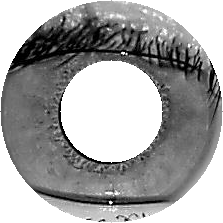
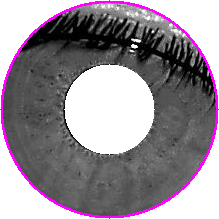
optimisation + affichage condensé
Suppression des nombreux imshow, focntion display() pour afficher ensemble les images. Ajout de commentaires

diff --git a/iris_recognition.py b/iris_recognition.py
@@ -2,19 +2,18 @@ import numpy as np
 import cv2 as cv
 from scipy.spatial import distance
 
-global pupil_1
-global pupil_2
-
 
 class IrisDetection:
     def __init__(self, img_path1, img_path2):
         self.path_1 = img_path1
+        self.original_1 = None
         self.img_loaded_1 = None
         self.img_gray_1 = None
         self.gaussian_1 = None
         self.img_edge_1 = None
         self.binary_1 = None
         self.path_2 = img_path2
+        self.original_1 = None
         self.img_loaded_2 = None
         self.img_gray_2 = None
         self.gaussian_2 = None
@@ -30,6 +29,8 @@ class IrisDetection:
         self.iris_2 = None
 
     def start(self):
+        # Méthode appelée lors de la création d'un objet, renvoyant le tuple des valeurs
+        # pour les iris et pupilles de chaque oeil
         self.read_img()
         self.img_2_gray()
         self.gaussian_filter()
@@ -37,50 +38,32 @@ class IrisDetection:
         self.hough_transform_pupil()
         self.detect_iris()
         self.sub_mask()
-        # self.write_txt()
+        self.display()
         return self.iris_1, self.iris_2, self.pupil_1, self.pupil_2
 
     def read_img(self):
+        # Méthode pour lire une image et utiliser ses données par la suite
         self.img_loaded_1 = cv.imread(self.path_1)
         self.img_loaded_2 = cv.imread(self.path_2)
-        numpy_horizontal_concat = np.concatenate(
-            (self.img_loaded_1, self.img_loaded_2), axis=1)
-        cv.imshow('Images originales', numpy_horizontal_concat)
-        cv.waitKey(0)
-        cv.destroyAllWindows()
-        cv.waitKey(1)
+        self.original_1 = cv.imread(self.path_1)
+        self.original_2 = cv.imread(self.path_2)
 
     def img_2_gray(self):
+        # On convertit les images lues en gris
         self.img_gray_1 = cv.cvtColor(self.img_loaded_1, cv.COLOR_BGR2GRAY)
         self.img_gray_2 = cv.cvtColor(self.img_loaded_2, cv.COLOR_BGR2GRAY)
-        numpy_horizontal_concat = np.concatenate(
-            (self.img_gray_1, self.img_gray_2), axis=1)
-        cv.imshow('Images Gris', numpy_horizontal_concat)
-        cv.waitKey(0)
-        cv.destroyAllWindows()
-        cv.waitKey(1)
 
     def gaussian_filter(self):
+        # On applique un filtre de Gauss
         self.gaussian_1 = cv.GaussianBlur(self.img_gray_1, (5, 5), 0)
         self.gaussian_2 = cv.GaussianBlur(self.img_gray_2, (5, 5), 0)
-        numpy_horizontal_concat = np.concatenate(
-            (self.gaussian_1, self.gaussian_2), axis=1)
-        cv.imshow('Images Gauss', numpy_horizontal_concat)
-        cv.waitKey(0)
-        cv.destroyAllWindows()
-        cv.waitKey(1)
 
     def canny_img(self):
+        # Filtre de Canny pour détecter les contours
         self.img_edge_1 = cv.Canny(
             image=self.gaussian_1, threshold1=60, threshold2=70)
         self.img_edge_2 = cv.Canny(
             image=self.gaussian_2, threshold1=60, threshold2=70)
-        numpy_horizontal_concat = np.concatenate(
-            (self.img_edge_1, self.img_edge_2), axis=1)
-        cv.imshow('Images Canny', numpy_horizontal_concat)
-        cv.waitKey(0)
-        cv.destroyAllWindows()
-        cv.waitKey(1)
 
     def hough_transform_pupil(self):
         # Les pixels au dessus de 150 deviennent blancs
@@ -103,7 +86,6 @@ class IrisDetection:
                 self.mask_1 = np.zeros_like(self.img_loaded_1)
                 self.mask_1 = cv.circle(
                     self.mask_1, center, radius, (255, 255, 255), -1)
-                # cv.circle(self.img_loaded_1, center, radius, (255, 0, 255), 3)
                 self.pupil_1 = (center[0], center[1], radius)
 
         # Image 2
@@ -124,21 +106,7 @@ class IrisDetection:
                 self.mask_3 = np.zeros_like(self.img_loaded_1)
                 self.mask_3 = cv.circle(
                     self.mask_3, center, radius, (255, 255, 255), -1)
-                # cv.circle(self.img_loaded_2, center, radius, (255, 0, 255), 3)
                 self.pupil_2 = (center[0], center[1], radius)
-
-        numpy_horizontal_concat = np.concatenate(
-            (self.binary_1, self.binary_2), axis=1)
-        cv.imshow('Images Binaires', numpy_horizontal_concat)
-        cv.waitKey(0)
-        cv.destroyAllWindows()
-        cv.waitKey(1)
-        numpy_horizontal_concat = np.concatenate(
-            (self.img_loaded_1, self.img_loaded_2), axis=1)
-        cv.imshow('Images Pupille', numpy_horizontal_concat)
-        cv.waitKey(0)
-        cv.destroyAllWindows()
-        cv.waitKey(1)
 
     def detect_iris(self):
         # La distance minimum est donnée par le double du rayon de la pupille ( donc son diamètre ) afin d'éviter
@@ -175,14 +143,11 @@ class IrisDetection:
                 cv.circle(self.img_loaded_2, center, radius, (255, 0, 255), 3)
                 self.iris_2 = (center[0], center[1], radius)
 
-        numpy_horizontal_concat = np.concatenate(
-            (self.img_loaded_1, self.img_loaded_2), axis=1)
-        cv.imshow('Images Iris', numpy_horizontal_concat)
-        cv.waitKey(0)
-        cv.destroyAllWindows()
-        cv.waitKey(1)
-
     def sub_mask(self):
+        # On va supprimer la pupille et l'extérieur de l'iris,
+        # on créé un fichier contenant le résultat du détourage pour chaque image
+
+        # Image 1
         mask_final_1 = cv.subtract(self.mask_2, self.mask_1)
         result1 = cv.cvtColor(self.img_loaded_1, cv.COLOR_BGR2BGRA)
         result1[:, :, 3] = mask_final_1[:, :, 0]
@@ -194,23 +159,36 @@ class IrisDetection:
         result2[:, :, 3] = mask_final_2[:, :, 0]
         cv.imwrite("mask_2.png", result2)
 
-    def write_txt(self):
-        print(self.iris_1, self.iris_2)
-        f = open("iris.txt", "w")
-        f.write(str(self.iris_1))
-        f.close()
-        f = open("iris.txt", "a")
-        f.write(str(self.iris_2))
-        f.close()
-        f = open("iris.txt", "a")
-        f.write(str(self.pupil_1))
-        f.close()
-        f = open("iris.txt", "a")
-        f.write(str(self.pupil_2))
-        f.close()
+    def display(self):
+        numpy_concat_originals = np.concatenate(
+            (self.original_1, self.original_2), axis=1)
+        numpy_concat_grey = np.concatenate(
+            (self.img_gray_1, self.img_gray_2), axis=1)
+        numpy_concat_gauss = np.concatenate(
+            (self.gaussian_1, self.gaussian_2), axis=1)
+        numpy_concat_canny = np.concatenate(
+            (self.img_edge_1, self.img_edge_2), axis=1)
+        numpy_concat_binary = np.concatenate(
+            (self.binary_1, self.binary_2), axis=1)
+        numpy_concat_pupils = np.concatenate(
+            (self.img_loaded_1, self.img_loaded_2), axis=1)
+        numpy_concat_iris = np.concatenate(
+            (self.img_loaded_1, self.img_loaded_2), axis=1)
 
+        ver1 = np.concatenate(
+            (numpy_concat_grey, numpy_concat_gauss, numpy_concat_canny, numpy_concat_binary), axis=0)
+        ver2 = np.concatenate(
+            (numpy_concat_pupils, numpy_concat_iris), axis=0)
+        #vertical = np.column_stack((ver1, ver2))
+        cv.imshow("Images grises -> Gauss -> Canny -> binaires", ver1)
+        cv.imshow("Images pupilles -> Images iris", ver2)
+        cv.waitKey(0)
+        cv.destroyAllWindows()
+        cv.waitKey(1)
 
 # Pour la création d'un masque des paupières voir https://books.google.be/books?id=SI29AgAAQBAJ&pg=PA149&lpg=PA149&dq=iris+recon+matlab&source=bl&ots=Ae633czDjg&sig=ACfU3U3wu6AIhpf8zz56CKe0WL6yP-YAug&hl=fr&sa=X&ved=2ahUKEwjQucmpyrT0AhXP3KQKHS_OBOEQ6AF6BAgUEAM#v=onepage&q=iris%20recon%20matlab&f=false
+
+
 class IrisRecognition():
     def __init__(self, mask1, mask2, iris_1, iris_2, pupil_1, pupil_2):
         self.mask_1 = cv.imread(mask1, cv.IMREAD_UNCHANGED)
@@ -219,46 +197,51 @@ class IrisRecognition():
         self.iris_2 = iris_2
         self.pupil_1 = pupil_1
         self.pupil_2 = pupil_2
+        self.polar_1 = None
+        self.polar_2 = None
 
     def start(self):
         self.transparency()
         self.crop()
         self.normalisation()
         self.get_keypoints()
+        self.display()
 
     def crop(self):
-        # (1) Convert to gray, and threshold
+        # Méthode pour détourer le vide inutile à l'extérieur de l'iris,
+        # il enregistre une image détourée pour chaque oeil
+        # (1) Convertit en gris et création d'une limite
         gray = cv.cvtColor(self.mask_1, cv.COLOR_BGR2GRAY)
         th, threshed = cv.threshold(gray, 240, 255, cv.THRESH_BINARY_INV)
 
-        # (2) Morph-op to remove noise
+        # (2) Morph-op pour supprimer le bruit
         kernel = cv.getStructuringElement(cv.MORPH_ELLIPSE, (11, 11))
         morphed = cv.morphologyEx(threshed, cv.MORPH_CLOSE, kernel)
 
-        # (3) Find the max-area contour
+        # (3) Cherche la zone du contour MAX
         cnts = cv.findContours(morphed, cv.RETR_EXTERNAL,
                                cv.CHAIN_APPROX_SIMPLE)[-2]
         cnt = sorted(cnts, key=cv.contourArea)[-1]
 
-        # (4) Crop and save it
+        # (4) Détoure et enregistre
         x, y, w, h = cv.boundingRect(cnt)
         dst = self.mask_1[y:y + h, x:x + w]
         cv.imwrite("crop_1.png", dst)
 
-        # (1) Convert to gray, and threshold
+        # (1) Convertit en gris et création d'une limite
         gray = cv.cvtColor(self.mask_2, cv.COLOR_BGR2GRAY)
         th, threshed = cv.threshold(gray, 240, 255, cv.THRESH_BINARY_INV)
 
-        # (2) Morph-op to remove noise
+        # (2) Morph-op pour supprimer le bruit
         kernel = cv.getStructuringElement(cv.MORPH_ELLIPSE, (11, 11))
         morphed = cv.morphologyEx(threshed, cv.MORPH_CLOSE, kernel)
 
-        # (3) Find the max-area contour
+        # (3) Cherche la zone du contour MAX
         cnts = cv.findContours(morphed, cv.RETR_EXTERNAL,
                                cv.CHAIN_APPROX_SIMPLE)[-2]
         cnt = sorted(cnts, key=cv.contourArea)[-1]
 
-        # (4) Crop and save it
+        # (4) Détoure et enregistre
         x, y, w, h = cv.boundingRect(cnt)
         dst = self.mask_2[y:y + h, x:x + w]
         cv.imwrite("crop_2.png", dst)
@@ -266,48 +249,41 @@ class IrisRecognition():
     def transparency(self):
         trans_mask = self.mask_1[:, :, 3] == 0
         self.mask_1[trans_mask] = [255, 255, 255, 0]
-        # cv.imwrite("test alpha.png", self.mask_1)
 
         trans_mask = self.mask_2[:, :, 3] == 0
         self.mask_2[trans_mask] = [255, 255, 255, 0]
-        # cv.imwrite("test alpha2.png", self.mask_2)
 
     def normalisation(self):
         img_crop1 = cv.imread('crop_1.png')
 
         polar_img = cv.warpPolar(
-            img_crop1, (256, 1024), (img_crop1.shape[0] / 2, img_crop1.shape[1] / 2), self.iris_1[2] * 2,
+            img_crop1, (256, 1024), (img_crop1.shape[0] / 2,
+                                     img_crop1.shape[1] / 2), self.iris_1[2] * 2,
             cv.WARP_POLAR_LINEAR)
         polar_img = cv.rotate(polar_img, cv.ROTATE_90_COUNTERCLOCKWISE)
 
         # crop image
-        polar_img = polar_img[int(polar_img.shape[0] / 2)
-                              : polar_img.shape[0], 0: polar_img.shape[1]]
+        polar_img = polar_img[int(polar_img.shape[0] / 2): polar_img.shape[0], 0: polar_img.shape[1]]
         polar_img = cv.cvtColor(polar_img, cv.COLOR_BGR2GRAY)
+        self.polar_1 = polar_img
 
         cv.imwrite("foreground.png", polar_img)
 
         img_crop2 = cv.imread('crop_2.png')
 
         polar_img2 = cv.warpPolar(
-            img_crop2, (256, 1024), (img_crop2.shape[0] / 2, img_crop2.shape[1] / 2), self.iris_2[2] * 2,
+            img_crop2, (256, 1024), (img_crop2.shape[0] / 2,
+                                     img_crop2.shape[1] / 2), self.iris_2[2] * 2,
             cv.WARP_POLAR_LINEAR)
         polar_img2 = cv.rotate(polar_img2, cv.ROTATE_90_COUNTERCLOCKWISE)
 
         # crop image
-        polar_img2 = polar_img2[int(polar_img2.shape[0] / 2)
-                                : polar_img2.shape[0], 0: polar_img2.shape[1]]
+        polar_img2 = polar_img2[int(
+            polar_img2.shape[0] / 2): polar_img2.shape[0], 0: polar_img2.shape[1]]
         polar_img2 = cv.cvtColor(polar_img2, cv.COLOR_BGR2GRAY)
+        self.polar_2 = polar_img2
 
         cv.imwrite("foreground2.png", polar_img2)
-        cv.imshow('Image polaire 1', polar_img)
-        cv.waitKey(0)
-        cv.destroyAllWindows()
-        cv.waitKey(1)
-        cv.imshow('Image polaire 2', polar_img2)
-        cv.waitKey(0)
-        cv.destroyAllWindows()
-        cv.waitKey(1)
 
     def get_keypoints(self):
         img = cv.imread('foreground.png')
@@ -332,7 +308,17 @@ class IrisRecognition():
         else:
             print("not match")
 
+    def display(self):
+        numpy_concat_vertical = np.concatenate(
+            (self.polar_1, self.polar_2), axis=0)
+
+        cv.imshow("Images polarisees", numpy_concat_vertical)
+        cv.waitKey(0)
+        cv.destroyAllWindows()
+        cv.waitKey(1)
+
 
 if __name__ == "__main__":
-    test = IrisDetection('database/004/03.bmp', 'database/004/04.bmp').start()
-    IrisRecognition('mask_1.png', 'mask_2.png', test[0], test[1], test[2], test[3]).start()
+    data = IrisDetection('database/004/03.bmp', 'database/004/04.bmp').start()
+    IrisRecognition('mask_1.png', 'mask_2.png',
+                    data[0], data[1], data[2], data[3]).start()
